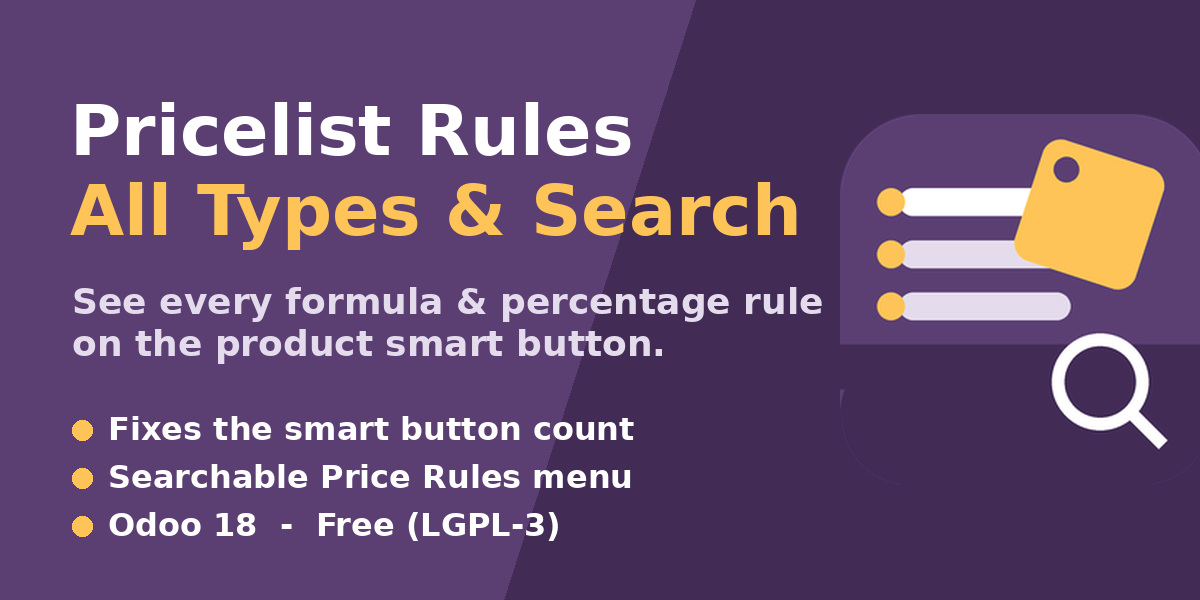
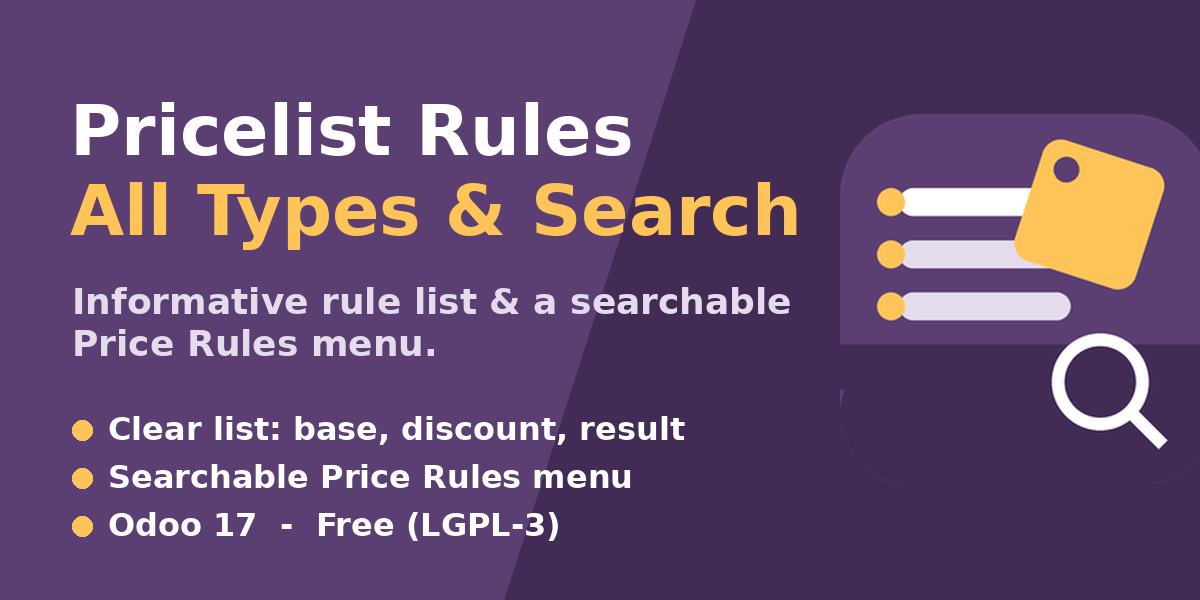
xb_product_pricelist_rules 17.0.1.0.0: informative rule list + searchable menu
En Odoo 17 el smart button ya cuenta reglas de formula, asi que esta version
se centra en: lista informativa (base/descuento/precio resultante) al abrir el
smart button, una search view para product.pricelist.item (Odoo 17 no trae), y
el menu Sales > Products > Price Rules (search). Usa <tree> y price_discount
(price_markup no existe en 17).

Claude-Session: https://claude.ai/code/session_01S15w6fuK6SrvHjeF4LFAGP

Changed region(s): [[0.0617, 0.48, 0.7092, 0.6], [0.0925, 0.69, 0.5858, 0.75], [0.185, 0.84, 0.2158, 0.9]]

diff --git a/xb_product_pricelist_rules/static/description/index.html b/xb_product_pricelist_rules/static/description/index.html
@@ -16,13 +16,12 @@
     </p>
 
     <div style="background:#f6f2fa;border-left:5px solid #5B3F73;padding:16px 20px;border-radius:6px;margin-bottom:28px;">
-      <h3 style="margin:0 0 8px;color:#5B3F73;">The problem in Odoo 18</h3>
+      <h3 style="margin:0 0 8px;color:#5B3F73;">Made for Odoo 17</h3>
       <p style="margin:0;font-size:15px;line-height:1.5;">
-        The <b>Pricelist Rules</b> smart button on the product form only counts
-        and opens rules computed as <i>Fixed Price</i>. Rules based on a
-        <b>formula</b> or a <b>percentage discount</b> are hidden: the button
-        shows <b>0</b> and opens an empty list, even when the product is used by
-        many pricelist rules.
+        The standard <b>Pricelist Rules</b> list opened from a product forces a
+        required <i>Fixed Price</i> column that makes no sense for
+        <b>formula</b> or <b>percentage</b> rules, and Odoo 17 ships no search
+        view to browse rules across products. This module fixes both.
       </p>
     </div>
 
@@ -33,9 +32,9 @@
         <td style="padding:10px 14px;"><b>Description</b></td>
       </tr>
       <tr style="border-bottom:1px solid #eee;">
-        <td style="padding:10px 14px;"><b>Complete count</b></td>
-        <td style="padding:10px 14px;">The smart button counts every rule applicable
-          to the product or its variants (Fixed, Percentage, Formula).</td>
+        <td style="padding:10px 14px;"><b>Search view</b></td>
+        <td style="padding:10px 14px;">Adds the pricelist-rules search view that
+          Odoo 17 is missing, so rules can be filtered and grouped.</td>
       </tr>
       <tr style="border-bottom:1px solid #eee;background:#faf8fc;">
         <td style="padding:10px 14px;"><b>Informative list</b></td>
@@ -58,9 +57,9 @@
 
     <h2 style="color:#5B3F73;font-size:22px;">Compatibility</h2>
     <ul style="font-size:15px;line-height:1.7;">
-      <li>Odoo <b>18.0</b> Community &amp; Enterprise.</li>
-      <li>Odoo 17.0 and 19.0 are not affected by this smart-button limitation;
-          on those series the smart button already lists formula rules.</li>
+      <li>Odoo <b>17.0</b> Community &amp; Enterprise.</li>
+      <li>The Odoo 18 build additionally fixes the smart-button count, which
+          Odoo 18 wrongly restricts to fixed-price rules.</li>
     </ul>
 
     <div style="margin-top:30px;padding:18px;background:#5B3F73;border-radius:8px;color:#fff;text-align:center;">

diff --git a/xb_product_pricelist_rules/__manifest__.py b/xb_product_pricelist_rules/__manifest__.py
@@ -1,46 +1,40 @@
 # -*- coding: utf-8 -*-
 {
     "name": "Product Pricelist Rules – All Types & Search",
-    "summary": "Show ALL pricelist rules (formula/percentage too) on the "
-               "product smart button, plus a searchable Price Rules menu.",
+    "summary": "Informative pricelist-rules list on the product smart button "
+               "and a searchable Price Rules menu.",
     "description": """
 Product Pricelist Rules – All Types & Search
 ============================================
 
-In Odoo 18 the **Pricelist Rules** smart button on the product form only
-counts and opens rules whose computation is a *Fixed Price*. Any rule based
-on a **formula** (``Cost`` + margin) or a **percentage discount** is silently
-hidden: the smart button shows ``0`` and opens an empty list, even when the
-product is referenced by dozens of pricelist rules.
-
-This module fixes that and adds a searchable rules menu:
+Manage and audit pricelist rules of every computation type (Fixed,
+Percentage and Formula) more comfortably.
 
 Key features
 ------------
-* The product **Pricelist Rules** smart button now counts **every** rule
-  applicable to the product or its variants (Fixed, Percentage and Formula),
-  not only fixed-price ones.
-* Clicking the smart button opens an **informative list** showing the
-  pricelist, how the price is computed, the base, the margin and the
-  resulting price — instead of a list that forces a meaningless "Fixed Price"
-  column on formula rules.
-* A new menu **Sales ▸ Products ▸ Price Rules (search)** opens the full list
-  of pricelist rules with the standard search view, so you can finally
-  filter and group thousands of rules by product, pricelist, etc.
-* No data migration, no configuration: install and the smart button is fixed.
+* The product **Pricelist Rules** smart button opens an **informative list**
+  showing the pricelist, how the price is computed, the base, the discount
+  and the resulting price — instead of a list that forces a meaningless
+  "Fixed Price" column on formula/percentage rules.
+* Adds a **search view** for pricelist rules (missing in Odoo 17) and a new
+  menu **Sales ▸ Products ▸ Price Rules (search)** to browse the full list
+  of rules and filter / group by product, pricelist or computation type.
+* No data migration, no configuration.
 
 Compatibility
 -------------
-* Odoo 18.0 Community and Enterprise.
-* Note: Odoo 17.0 and 19.0 are not affected by this smart-button limitation;
-  on those versions a dedicated build ships only the searchable menu.
+* Odoo 17.0 Community and Enterprise.
+* On Odoo 17 the smart button already counts formula rules natively; this
+  build focuses on the informative list and the searchable rules menu. The
+  Odoo 18 build additionally fixes the smart-button count, which Odoo 18
+  wrongly restricts to fixed-price rules.
 """,
     "author": "Cristofferson Reyes",
     "maintainer": "XUBAX",
     "website": "https://www.xubax.com",
     "support": "soporte@xubax.com",
     "category": "Sales/Sales",
-    "version": "18.0.1.0.0",
+    "version": "17.0.1.0.0",
     "license": "LGPL-3",
     "depends": [
         "product",

diff --git a/xb_product_pricelist_rules/models/product_template.py b/xb_product_pricelist_rules/models/product_template.py
@@ -5,27 +5,12 @@ from odoo import _, models
 class ProductTemplate(models.Model):
     _inherit = "product.template"
 
-    def _compute_item_count(self):
-        # Standard Odoo 18 restricts the count to rules with
-        # compute_price='fixed', hiding formula/percentage rules. We count
-        # every rule applicable to the template or its variants instead.
-        for template in self:
-            template.pricelist_item_count = template.env[
-                "product.pricelist.item"
-            ].search_count(
-                [
-                    "&",
-                    "|",
-                    ("product_tmpl_id", "in", template.ids),
-                    ("product_id", "in", template.product_variant_ids.ids),
-                    ("pricelist_id.active", "=", True),
-                ]
-            )
-
     def open_pricelist_rules(self):
         self.ensure_one()
-        # Same domain as standard but WITHOUT the compute_price='fixed' filter,
-        # so formula and percentage rules are listed too.
+        # Odoo 17 already counts/lists formula rules on the smart button. We
+        # only swap the opened list for an informative one (computation, base,
+        # discount, resulting price) instead of the standard list that forces a
+        # required "Fixed Price" column on formula rules.
         domain = [
             "&",
             "|",
@@ -35,14 +20,14 @@ class ProductTemplate(models.Model):
         ]
         return {
             "name": _("Pricelist Rules"),
-            "view_mode": "list,form",
+            "view_mode": "tree,form",
             "views": [
                 (
                     self.env.ref(
                         "xb_product_pricelist_rules."
                         "product_pricelist_item_tree_view_all"
                     ).id,
-                    "list",
+                    "tree",
                 ),
                 (False, "form"),
             ],

diff --git a/xb_product_pricelist_rules/README.rst b/xb_product_pricelist_rules/README.rst
@@ -1,34 +1,23 @@
 Product Pricelist Rules – All Types & Search
 ============================================
 
-Show **all** pricelist rules on the product smart button and add a
-searchable Price Rules menu for Odoo 18.
+An informative pricelist-rules list on the product smart button and a
+searchable Price Rules menu for Odoo 17.
 
 * Author: **Cristofferson Reyes** (XUBAX)
 * License: LGPL-3 (free)
-* Compatible with: **Odoo 18.0** Enterprise and Community
-
-The problem
------------
-
-In Odoo 18 the **Pricelist Rules** smart button on the product form only
-counts and opens rules whose computation is *Fixed Price*. Rules based on a
-**formula** (``Cost`` + margin) or a **percentage discount** are hidden: the
-button shows ``0`` and opens an empty list, even if the product is referenced
-by many pricelist rules. There is also no menu to browse the full list of
-rules with a search view.
+* Compatible with: **Odoo 17.0** Enterprise and Community
 
 What this module does
 ---------------------
 
-* The product **Pricelist Rules** smart button counts **every** applicable
-  rule (Fixed, Percentage and Formula), on the template or its variants.
-* The smart button opens an informative list (pricelist, computation, base,
-  margin, resulting price) instead of one that forces a meaningless
-  "Fixed Price" column.
-* Adds a menu **Sales ▸ Products ▸ Price Rules (search)** that opens the full
-  list of rules with the standard search view (filter / group by product,
-  pricelist, ...).
+* The product **Pricelist Rules** smart button opens an informative list
+  (pricelist, computation, base, discount, resulting price) instead of the
+  standard list that forces a meaningless "Fixed Price" column on
+  formula/percentage rules.
+* Adds a **search view** for pricelist rules (Odoo 17 ships none) and a menu
+  **Sales ▸ Products ▸ Price Rules (search)** to browse the full list of
+  rules and filter / group by product, pricelist or computation type.
 
 Installation
 ------------
@@ -42,15 +31,13 @@ Installation
 3. Activate developer mode and update the app list.
 4. Search for *Product Pricelist Rules* in **Apps** and click **Install**.
 
-There is nothing to configure: the smart button works immediately and the
-new menu appears under **Sales ▸ Products**.
-
 Note about other Odoo versions
 ------------------------------
 
-Odoo **17.0** and **19.0** are not affected by the smart-button limitation;
-on those series the smart button already lists formula rules. A dedicated
-17.0 build of this module ships only the searchable Price Rules menu.
+On Odoo 17 the smart button already counts formula rules natively, so this
+build focuses on the informative list and the searchable menu. The Odoo 18
+build additionally fixes the smart-button count, which Odoo 18 wrongly
+restricts to fixed-price rules.
 
 Support
 -------

diff --git a/xb_product_pricelist_rules/doc/index.rst b/xb_product_pricelist_rules/doc/index.rst
@@ -4,18 +4,14 @@ Product Pricelist Rules – All Types & Search
 Usage
 -----
 
-Open any product (**Sales ▸ Products ▸ Products**) and look at the
-**Pricelist Rules** smart button at the top of the form:
-
-* The count now includes every pricelist rule applicable to the product or
-  its variants, regardless of how the price is computed (Fixed, Percentage,
-  Formula).
-* Click it to review and edit those rules in an informative list that shows
-  the pricelist, the computation method, the base, the margin and the
-  resulting price.
+Open any product (**Sales ▸ Products ▸ Products**) and click the
+**Pricelist Rules** smart button at the top of the form. The rules are shown
+in an informative list with the pricelist, the computation method, the base,
+the discount and the resulting price — much clearer than the standard list
+for formula and percentage rules.
 
 To browse or audit the whole catalog of rules, use the new menu
 **Sales ▸ Products ▸ Price Rules (search)**. It opens the complete list with
-the standard search view, so you can filter or group by product, pricelist,
-applied-on scope, dates, etc. — handy when a pricelist holds thousands of
-per-product rules.
+a search view, so you can filter or group by product, pricelist or
+computation type — handy when a pricelist holds thousands of per-product
+rules.

diff --git a/README.md b/README.md
@@ -1,14 +1,14 @@
-# XUBAX — Odoo Apps (18.0)
+# XUBAX — Odoo Apps (17.0)
 
-Módulos para **Odoo 18.0** publicados por **XUBAX** ([xubax.com](https://xubax.com) · soporte@xubax.com).
+Módulos para **Odoo 17.0** publicados por **XUBAX** ([xubax.com](https://xubax.com) · soporte@xubax.com).
 
-La rama `18.0` contiene el código para Odoo 18.0. Cada módulo vive en su propia carpeta en la raíz del repositorio.
+La rama `17.0` contiene el código para Odoo 17.0. Cada módulo vive en su propia carpeta en la raíz del repositorio.
 
 ## Módulos
 
 | Módulo | Versión | Precio | Descripción |
 |---|---|---|---|
-| `xb_product_pricelist_rules` | 18.0.1.0.0 | Gratis (LGPL-3) | Muestra **todas** las reglas de lista de precio (incl. fórmula y porcentaje) en el smart button del producto, y agrega un menú buscable de reglas. Corrige el límite de Odoo 18 que solo contaba reglas de precio fijo. |
+| `xb_product_pricelist_rules` | 17.0.1.0.0 | Gratis (LGPL-3) | Lista informativa de reglas de lista de precio en el smart button del producto + search view (que Odoo 17 no trae) y menú buscable de reglas. (La versión 18.0 además corrige el contador del smart button que Odoo 18 limita a precio fijo.) |
 
 ## Soporte
 

diff --git a/xb_product_pricelist_rules/doc/changelog.rst b/xb_product_pricelist_rules/doc/changelog.rst
@@ -1,11 +1,10 @@
 Changelog
 =========
 
-18.0.1.0.0
+17.0.1.0.0
 ----------
 
 * Initial release.
-* Pricelist Rules smart button counts and opens rules of every computation
-  type (Fixed, Percentage, Formula), not only fixed-price ones.
-* Informative list view for the smart button.
+* Informative list view for the product Pricelist Rules smart button.
+* Search view for product.pricelist.item (missing in Odoo 17).
 * New searchable menu *Sales ▸ Products ▸ Price Rules (search)*.
